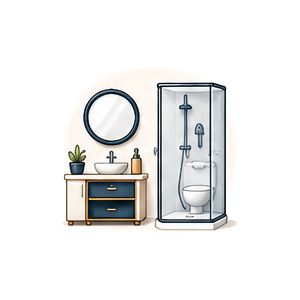
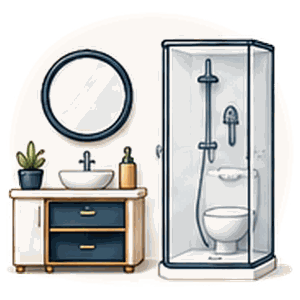
Icone: box quadrato 118px (era 78) e contenuto al 96% del canvas; contatori 68px

diff --git a/src/components/preventivo/preventivo.css b/src/components/preventivo/preventivo.css
@@ -58,10 +58,13 @@
 /* icone SVG */
 .pv-ic{width:110px;height:78px;margin:0 auto 8px;display:block;max-width:100%}
 .pv-ic svg{width:100%;height:100%;display:block}
-/* Icone tipo struttura come immagine (PNG in /public/preventivo-icone) */
+/* Icone illustrate come immagine (PNG in /public/preventivo-icone).
+   Il canvas dei PNG e' QUADRATO (300x300): il box landscape 110x78 le schiacciava
+   a 78x78 sprecando 32px. Qui il box diventa quadrato e l'icona riempie la card. */
 .pv-ic-img{width:100%;height:100%;object-fit:contain;display:block}
-img.pv-ic-img{width:110px;height:78px}
-.pv-ic-mini.pv-ic-img{width:38px;height:38px}
+img.pv-ic-img{width:100%;max-width:118px;height:auto;aspect-ratio:1/1;margin:0 auto 8px}
+.pv-contatore img.pv-ic-img{width:68px;max-width:68px;height:68px;flex:none;margin:0}
+img.pv-ic-mini.pv-ic-img{width:46px;max-width:46px;height:46px;margin:0}
 .pv-ic svg *{fill:none;stroke:var(--blu);stroke-width:2.4;stroke-linecap:round;stroke-linejoin:round}
 .pv-ic svg .accent{stroke:var(--rame)}
 .pv-ic svg .fill{fill:var(--blu-chiaro)}
@@ -183,6 +186,8 @@ img.pv-ic-img{width:110px;height:78px}
   .pv-nav{padding-left:16px;padding-right:16px}
   .pv-scelte{gap:9px}
   .pv-ic{width:92px;height:66px}
+  img.pv-ic-img{max-width:104px}
+  .pv-contatore img.pv-ic-img{width:60px;max-width:60px;height:60px}
 }
 @media (prefers-reduced-motion:reduce){
   .pv-page *,.pv-page *::before,.pv-page *::after{animation:none!important;transition:none!important}
